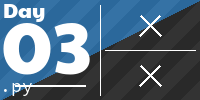
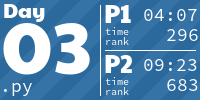
update day 3 tile

diff --git a/README.md b/README.md
@@ -1,6 +1,6 @@
 <!-- AOC TILES BEGIN -->
 <h1 align="center">
-  2022 - 4 ⭐
+  2022 - 6 ⭐
 </h1>
 <a href="2022/python/01_Calorie_Counting.py">
   <img src="Media/2022/01.png" width="161px">
